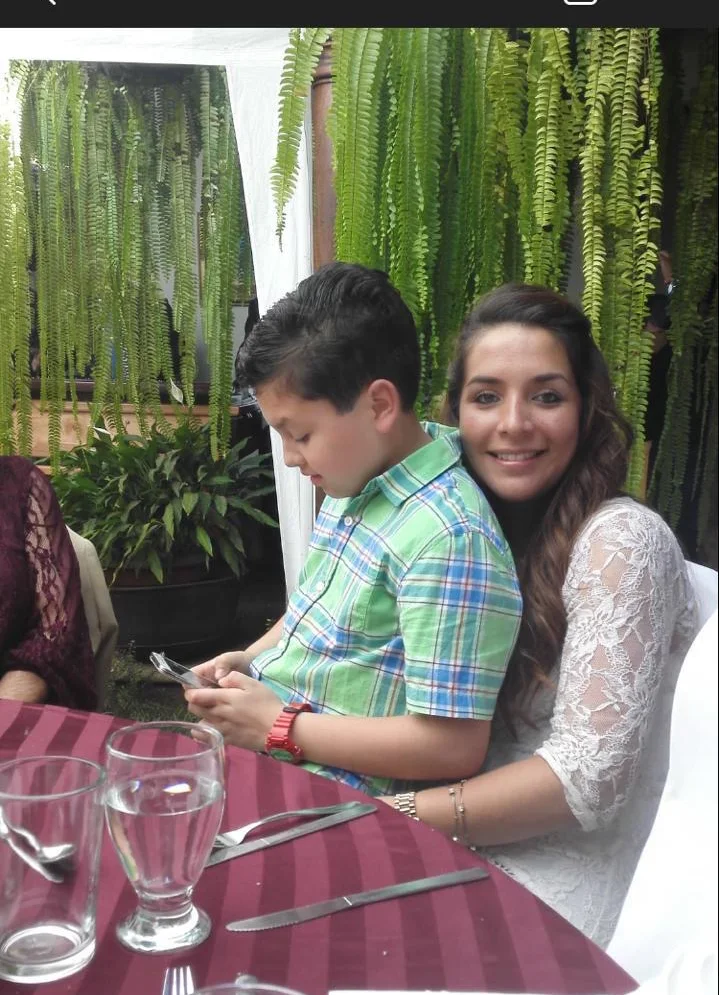
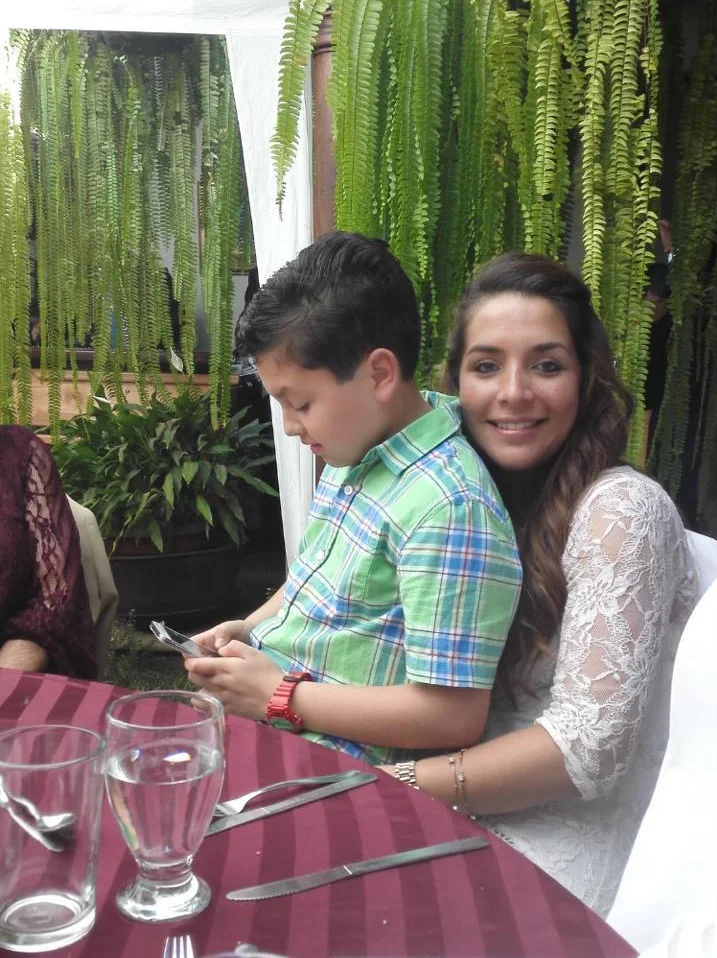
Rediseñar infancia y adolescencia como mosaico de fotografías
- La línea del tiempo ya no cruza las fotografías ni los controles.
- Cada etapa muestra todas sus fotografías a la vez, en dos columnas
  parejas; si la primera es horizontal, va grande arriba.
- El carrusel de la etapa actual empieza con la primera fotografía centrada.
- Recorte limpio de una fotografía que conservaba la barra del teléfono.

Claude-Session: https://claude.ai/code/session_01TGcThTLcFVeeQvFGzjAhxg

diff --git a/src/components/Invitation.tsx b/src/components/Invitation.tsx
@@ -93,26 +93,30 @@ export default function Invitation({ content }: { content: Content }) {
             </Reveal>
           )}
 
-          <ol className="relative mx-auto mt-14 max-w-2xl">
-            <span className="absolute bottom-0 left-1/2 top-0 w-px -translate-x-1/2 bg-gold/50" aria-hidden="true" />
+          <ol className="mx-auto mt-6 max-w-2xl">
             {timeline.map((group) => {
               const list = bySection(photos, group.section)
               if (!list.length && !group.description) return null
+              // Si la primera fotografía es horizontal, se muestra grande; el resto, en dos columnas.
+              const lead = list.length > 2 && list[0].width > list[0].height ? list.slice(0, 1) : []
+              const rest = list.slice(lead.length)
               return (
-                <li key={group.section} className="relative pb-16 last:pb-0">
+                <li key={group.section}>
                   <Reveal>
-                    <div className="relative mx-auto w-fit bg-white px-6 py-3 text-center">
-                      <span className="mx-auto mb-3 block h-2.5 w-2.5 rotate-45 bg-gold" aria-hidden="true" />
-                      {group.label && <p className="eyebrow">{group.label}</p>}
-                      <h3 className="font-display text-2xl text-navy">{group.title}</h3>
+                    <div className="text-center">
+                      <span className="mx-auto block h-14 w-px bg-gold/60" aria-hidden="true" />
+                      <span className="mx-auto my-4 block h-2.5 w-2.5 rotate-45 bg-gold" aria-hidden="true" />
+                      {group.label && <p className="eyebrow mb-1">{group.label}</p>}
+                      <h3 className="font-display text-[1.7rem] text-navy">{group.title}</h3>
+                      {group.description && (
+                        <p className="mx-auto mt-2 max-w-md px-6 font-serif text-lg leading-relaxed text-navy/75">
+                          {group.description}
+                        </p>
+                      )}
                     </div>
-                    {group.description && (
-                      <p className="relative mx-auto mt-2 max-w-md bg-white px-6 py-2 text-center font-serif text-lg leading-relaxed text-navy/75">
-                        {group.description}
-                      </p>
-                    )}
-                    <div className="relative mt-6">
-                      <Carousel photos={list} label={`Fotografías: ${group.title}`} />
+                    <div className="mt-7 space-y-5 px-5 pb-10">
+                      {lead.length > 0 && <PhotoFrame photos={list} index={0} className="mx-auto max-w-2xl px-1" />}
+                      <Album photos={rest} tilt={false} offset={lead.length} all={list} />
                     </div>
                   </Reveal>
                 </li>

diff --git a/src/components/Gallery.tsx b/src/components/Gallery.tsx
@@ -175,7 +175,19 @@ export function PhotoFrame({
 /* Álbum (mosaico de dos columnas)                                      */
 /* ------------------------------------------------------------------ */
 
-export function Album({ photos }: { photos: Photo[] }) {
+export function Album({
+  photos,
+  tilt = true,
+  all,
+  offset = 0,
+}: {
+  photos: Photo[]
+  /** Ligera inclinación de álbum familiar. */
+  tilt?: boolean
+  /** Lista completa para la pantalla completa, si este mosaico muestra solo una parte. */
+  all?: Photo[]
+  offset?: number
+}) {
   if (!photos.length) return null
   // Reparto manual en dos columnas: cada fotografía va a la columna más corta,
   // así ambas quedan parejas (las columnas CSS las desbalancean en Safari).
@@ -209,9 +221,9 @@ export function Album({ photos }: { photos: Photo[] }) {
           {col.map((i) => (
             <PhotoFrame
               key={photos[i].id}
-              photos={photos}
-              index={i}
-              className={i % 3 === 0 ? '-rotate-1' : i % 3 === 1 ? 'rotate-1' : ''}
+              photos={all ?? photos}
+              index={i + offset}
+              className={!tilt ? '' : i % 3 === 0 ? '-rotate-1' : i % 3 === 1 ? 'rotate-1' : ''}
             />
           ))}
         </div>
@@ -236,14 +248,16 @@ export function Carousel({ photos, label }: { photos: Photo[]; label: string }) 
     <div role="group" aria-label={label}>
       <div
         ref={ref}
-        className="no-scrollbar flex snap-x snap-mandatory items-center gap-4 overflow-x-auto scroll-smooth px-[9%] py-2"
+        className="no-scrollbar flex snap-x snap-mandatory items-center gap-4 overflow-x-auto scroll-smooth py-2"
       >
         {photos.map((p, i) => (
           <PhotoFrame
             key={p.id}
             photos={photos}
             index={i}
-            className={`shrink-0 snap-center ${p.width > p.height ? 'w-[82%] max-w-md' : 'w-[68%] max-w-[19rem]'}`}
+            className={`shrink-0 snap-center ${p.width > p.height
+                ? 'w-[82%] max-w-md first:ml-[9%] last:mr-[9%]'
+                : 'w-[68%] max-w-[19rem] first:ml-[16%] last:mr-[16%]'}`}
           />
         ))}
       </div>
